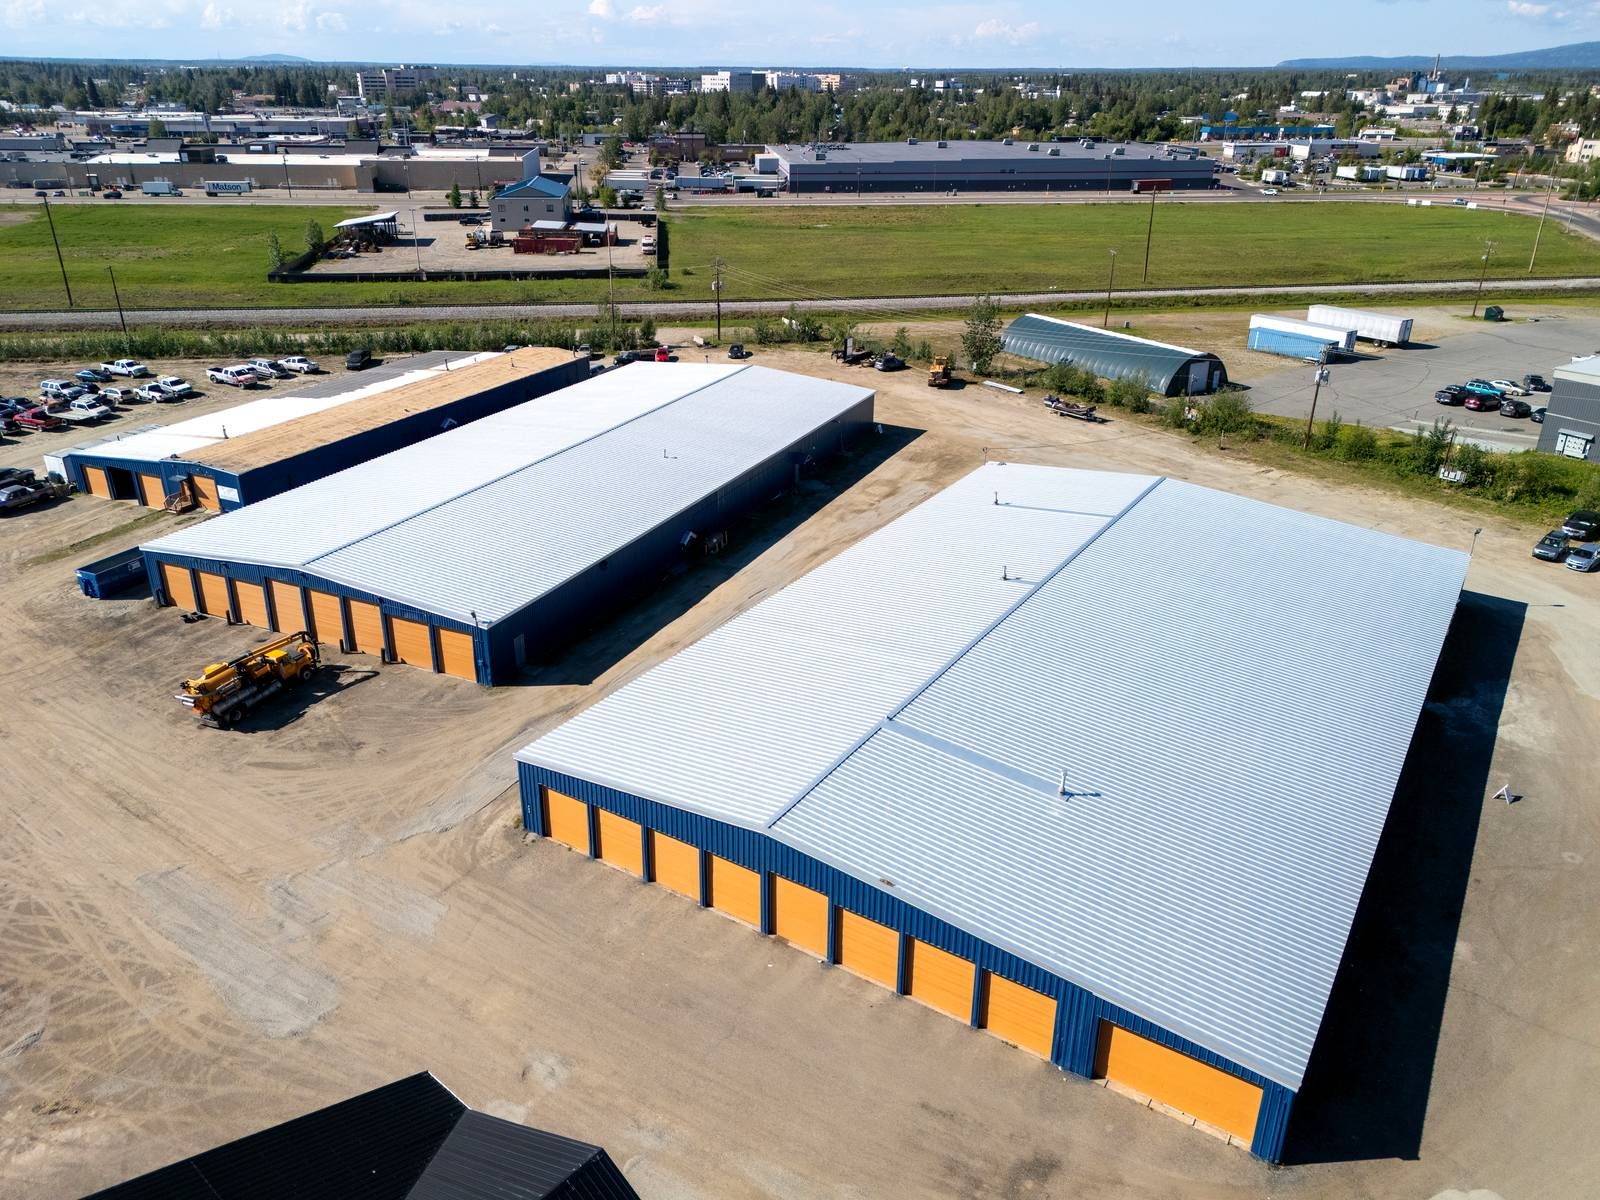
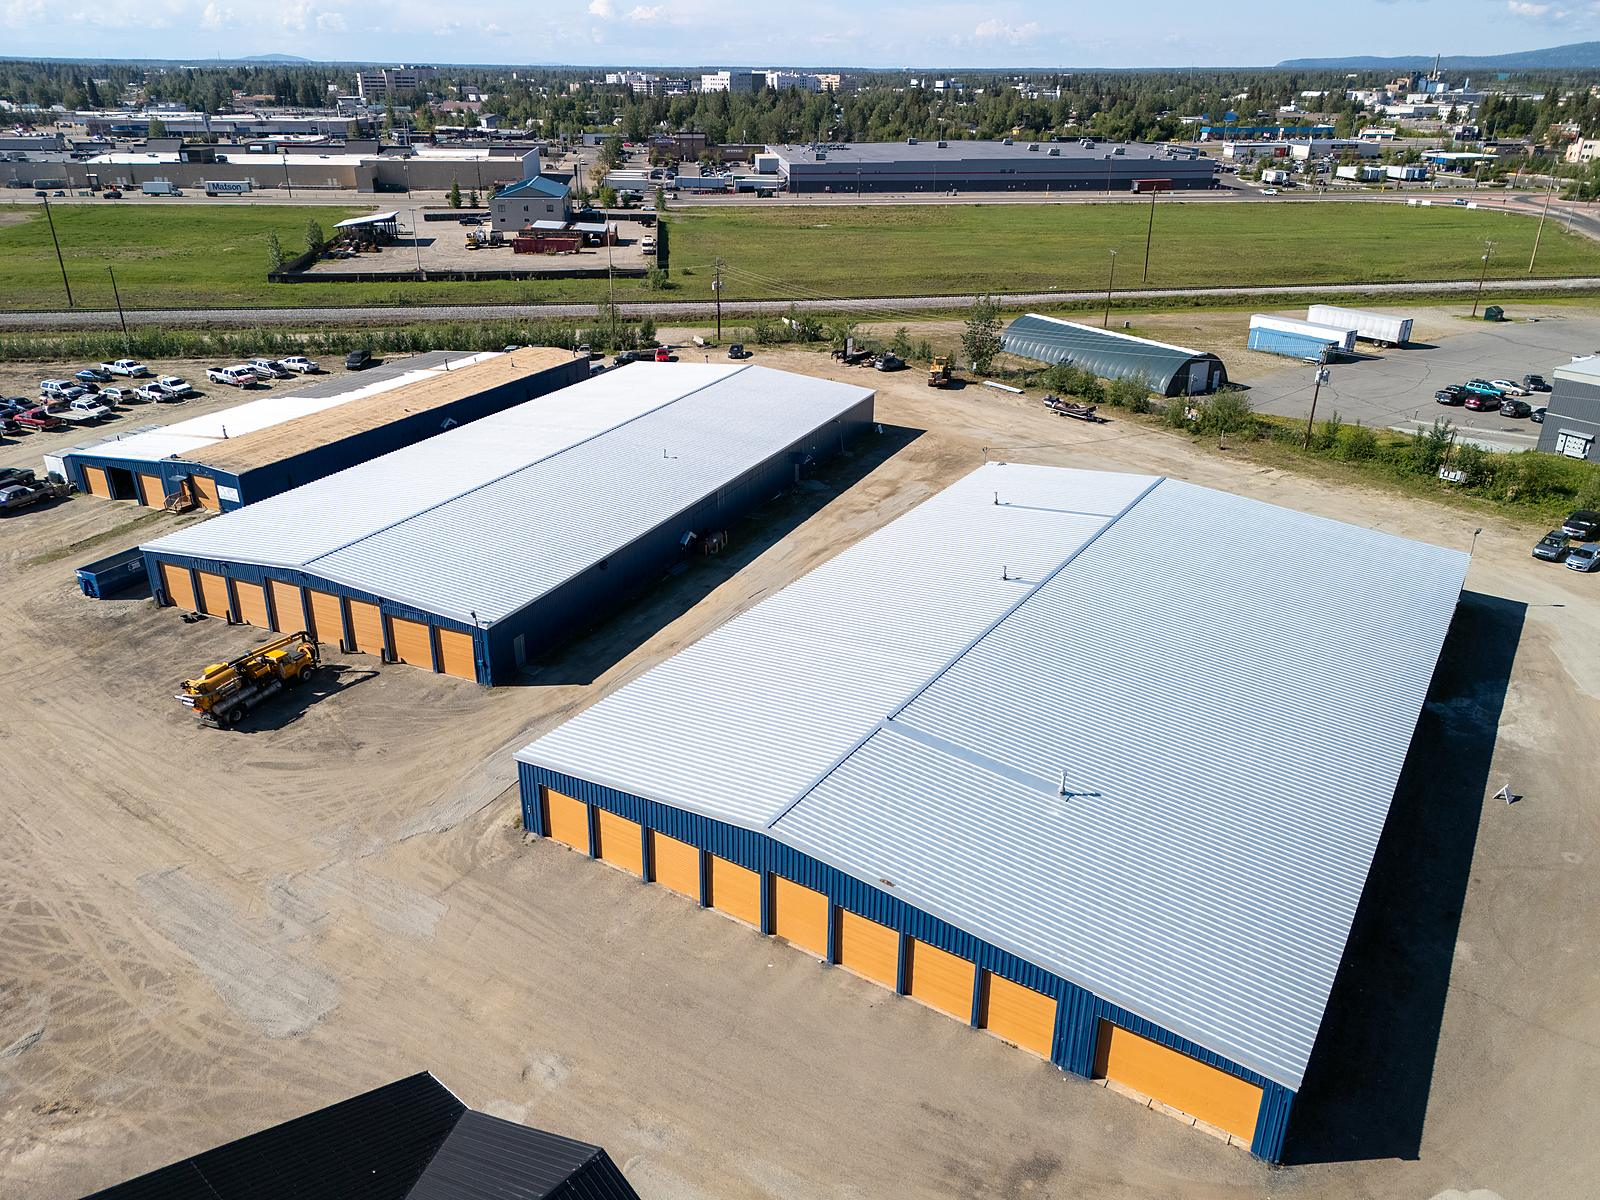
Curate best professional photos for every spot across the site
Replace site imagery with the professional HDR/drone real-estate set:
- Hero: sharper on-brand aerial of the Helmericks warehouses (12-16)
- Secondary aerial: full-campus overview (4-18)
- Signature warehouse exterior, office building, and all shop interiors,
  service pit, and restroom swapped to the pro shots
- 300 Barnette lead photo upgraded to a cleaner establishing shot
- Expanded the Helmericks gallery to a flush 11-tile, 3-row grid, adding
  the gold-door elevation and two finished office-suite interiors
- Re-tuned JPEG quality per image and normalized every width/height to the
  exact processed dimensions (no layout shift)

diff --git a/properties.html b/properties.html
@@ -126,7 +126,7 @@
   <div class="wrap">
     <div class="cards c2">
       <a class="pcard reveal" href="#helmericks">
-        <div class="pcard__img"><img width="1600" height="1068" src="assets/img/helmericks-storage.jpg" alt="399 Helmericks Avenue warehouses" loading="lazy"><span class="pcard__type">Industrial / Warehouse</span></div>
+        <div class="pcard__img"><img width="1600" height="1069" src="assets/img/helmericks-storage.jpg" alt="399 Helmericks Avenue warehouses" loading="lazy"><span class="pcard__type">Industrial / Warehouse</span></div>
         <div class="pcard__body">
           <h3>399 Helmericks Avenue</h3>
           <div class="pcard__addr"><svg viewBox="0 0 24 24" fill="none" stroke="currentColor" stroke-width="2"><path d="M12 21s-7-6.6-7-11a7 7 0 0 1 14 0c0 4.4-7 11-7 11z"/><circle cx="12" cy="10" r="2.6"/></svg> Fairbanks, AK 99701</div>
@@ -134,7 +134,7 @@
         </div>
       </a>
       <a class="pcard reveal d1" href="#barnette">
-        <div class="pcard__img"><img width="1448" height="899" src="assets/img/barnette-exterior.jpg" alt="300 Barnette Street office building" loading="lazy"><span class="pcard__type">Downtown Office</span></div>
+        <div class="pcard__img"><img width="1448" height="999" src="assets/img/barnette-exterior.jpg" alt="300 Barnette Street office building" loading="lazy"><span class="pcard__type">Downtown Office</span></div>
         <div class="pcard__body">
           <h3>300 Barnette Street</h3>
           <div class="pcard__addr"><svg viewBox="0 0 24 24" fill="none" stroke="currentColor" stroke-width="2"><path d="M12 21s-7-6.6-7-11a7 7 0 0 1 14 0c0 4.4-7 11-7 11z"/><circle cx="12" cy="10" r="2.6"/></svg> Fairbanks, AK 99701</div>
@@ -150,9 +150,9 @@
   <div class="wrap">
     <div class="prop reveal">
       <div class="prop__media">
-        <img width="1600" height="1068" class="pm-main" src="assets/img/helmericks-storage.jpg" alt="Warehouse bays with overhead doors at 399 Helmericks Avenue" loading="lazy">
+        <img width="1600" height="1069" class="pm-main" src="assets/img/helmericks-storage.jpg" alt="Warehouse bays with overhead doors at 399 Helmericks Avenue" loading="lazy">
         <div class="pm-thumbs">
-          <img width="1600" height="1068" src="assets/img/helmericks-int-2.jpg" alt="Warehouse bay interior at 399 Helmericks Avenue" loading="lazy">
+          <img width="1600" height="1069" src="assets/img/helmericks-int-2.jpg" alt="Warehouse bay interior at 399 Helmericks Avenue" loading="lazy">
           <img width="1600" height="1200" src="assets/img/helmericks-aerial.jpg" alt="Aerial of 399 Helmericks Avenue" loading="lazy">
         </div>
       </div>
@@ -300,13 +300,17 @@
     </div>
 
     <div class="gallery reveal" style="margin-top:56px">
-      <a class="g-wide" href="assets/img/helmericks-storage.jpg"><img width="1600" height="1068" src="assets/img/helmericks-storage.jpg" alt="Blue warehouse with gold overhead doors at 399 Helmericks" loading="lazy"></a>
-      <a href="assets/img/helmericks-int-1.jpg"><img width="1535" height="1024" src="assets/img/helmericks-int-1.jpg" alt="Open high-bay shop interior at 399 Helmericks" loading="lazy"></a>
-      <a href="assets/img/helmericks-int-2.jpg"><img width="1600" height="1068" src="assets/img/helmericks-int-2.jpg" alt="Vehicle shop with lifts at 399 Helmericks" loading="lazy"></a>
-      <a href="assets/img/helmericks-int-3.jpg"><img width="1448" height="1086" src="assets/img/helmericks-int-3.jpg" alt="Available warehouse bay at 399 Helmericks" loading="lazy"></a>
-      <a href="assets/img/helmericks-pit.jpg"><img width="1086" height="1448" src="assets/img/helmericks-pit.jpg" alt="Service and wash pit at 399 Helmericks" loading="lazy"></a>
-      <a href="assets/img/helmericks-bath.jpg"><img width="1600" height="2395" src="assets/img/helmericks-bath.jpg" alt="Restroom with washer, dryer and shower at 399 Helmericks" loading="lazy"></a>
-      <a href="assets/img/helmericks-office.jpg"><img width="1600" height="1068" src="assets/img/helmericks-office.jpg" alt="Office building at 399 Helmericks" loading="lazy"></a>
+      <a class="g-wide" href="assets/img/helmericks-storage.jpg"><img width="1600" height="1069" src="assets/img/helmericks-storage.jpg" alt="Blue warehouse with gold overhead doors at 399 Helmericks Avenue" loading="lazy"></a>
+      <a href="assets/img/helmericks-doors.jpg"><img width="1600" height="1069" src="assets/img/helmericks-doors.jpg" alt="Row of gold overhead doors along a warehouse at 399 Helmericks Avenue" loading="lazy"></a>
+      <a href="assets/img/helmericks-int-1.jpg"><img width="1600" height="1069" src="assets/img/helmericks-int-1.jpg" alt="Open high-bay shop with concrete floor at 399 Helmericks Avenue" loading="lazy"></a>
+      <a href="assets/img/helmericks-int-2.jpg"><img width="1600" height="1069" src="assets/img/helmericks-int-2.jpg" alt="Vehicle shop with lifts at 399 Helmericks Avenue" loading="lazy"></a>
+      <a href="assets/img/helmericks-int-3.jpg"><img width="1600" height="1069" src="assets/img/helmericks-int-3.jpg" alt="Shop bay with a vehicle lift at 399 Helmericks Avenue" loading="lazy"></a>
+      <a href="assets/img/helmericks-pit.jpg"><img width="1600" height="1069" src="assets/img/helmericks-pit.jpg" alt="Service and wash pit at 399 Helmericks Avenue" loading="lazy"></a>
+      <a href="assets/img/helmericks-bath.jpg"><img width="1600" height="1069" src="assets/img/helmericks-bath.jpg" alt="Finished restroom at 399 Helmericks Avenue" loading="lazy"></a>
+      <a href="assets/img/helmericks-office.jpg"><img width="1600" height="1069" src="assets/img/helmericks-office.jpg" alt="Office building at 399 Helmericks Avenue" loading="lazy"></a>
+      <a href="assets/img/helmericks-office-int.jpg"><img width="1600" height="1069" src="assets/img/helmericks-office-int.jpg" alt="Finished office lounge at 399 Helmericks Avenue" loading="lazy"></a>
+      <a href="assets/img/helmericks-office-int2.jpg"><img width="1600" height="1069" src="assets/img/helmericks-office-int2.jpg" alt="Finished office suite with desks at 399 Helmericks Avenue" loading="lazy"></a>
+      <a href="assets/img/helmericks-aerial.jpg"><img width="1600" height="1200" src="assets/img/helmericks-aerial.jpg" alt="Aerial view of the 399 Helmericks Avenue campus" loading="lazy"></a>
     </div>
   </div>
 </section>
@@ -316,7 +320,7 @@
   <div class="wrap">
     <div class="prop prop--rev reveal">
       <div class="prop__media">
-        <img width="1448" height="899" class="pm-main" src="assets/img/barnette-exterior.jpg" alt="300 Barnette Street office building in downtown Fairbanks" loading="lazy">
+        <img width="1448" height="999" class="pm-main" src="assets/img/barnette-exterior.jpg" alt="300 Barnette Street office building in downtown Fairbanks" loading="lazy">
         <div class="pm-thumbs">
           <img width="1600" height="1200" src="assets/img/barnette-reception.jpg" alt="Reception inside 300 Barnette Street" loading="lazy">
           <img width="960" height="1280" src="assets/img/barnette-glass.jpg" alt="Glass curtain wall side of 300 Barnette Street" loading="lazy">
@@ -373,7 +377,7 @@
     <p class="form-note" style="margin-top:18px;text-align:left;font-size:13.5px">Exterior beautification is in progress through the City of Fairbanks downtown facade incentive program.</p>
 
     <div class="gallery reveal" style="margin-top:56px">
-      <a class="g-wide" href="assets/img/barnette-exterior.jpg"><img width="1448" height="899" src="assets/img/barnette-exterior.jpg" alt="300 Barnette Street office building, front elevation" loading="lazy"></a>
+      <a class="g-wide" href="assets/img/barnette-exterior.jpg"><img width="1448" height="999" src="assets/img/barnette-exterior.jpg" alt="300 Barnette Street office building, front elevation" loading="lazy"></a>
       <a href="assets/img/barnette-corner.jpg"><img width="1448" height="971" src="assets/img/barnette-corner.jpg" alt="300 Barnette Street from the street corner" loading="lazy"></a>
       <a href="assets/img/barnette-glass.jpg"><img width="960" height="1280" src="assets/img/barnette-glass.jpg" alt="Glass curtain wall and entrance at 300 Barnette Street" loading="lazy"></a>
       <a href="assets/img/barnette-facade.jpg"><img width="1086" height="1448" src="assets/img/barnette-facade.jpg" alt="Decorative concrete screen facade at 300 Barnette Street" loading="lazy"></a>

diff --git a/index.html b/index.html
@@ -209,7 +209,7 @@
         </ul>
       </div>
       <div class="split__media reveal d2">
-        <img width="1535" height="1024" src="assets/img/helmericks-int-1.jpg" alt="Open warehouse interior with concrete floor at 399 Helmericks Avenue" loading="lazy" decoding="async">
+        <img width="1600" height="1069" src="assets/img/helmericks-int-1.jpg" alt="Open warehouse interior with concrete floor at 399 Helmericks Avenue" loading="lazy" decoding="async">
         <div class="badge badge--br">
           <svg viewBox="0 0 24 24" fill="none" stroke="currentColor" stroke-width="2"><path d="M3 21h18M5 21V7l7-4 7 4v14"/><path d="M9 9h.01M15 9h.01M9 13h.01M15 13h.01M9 17h.01M15 17h.01"/></svg>
           <div><div class="b-num">83,000 SF</div><div class="b-lbl">Across two properties</div></div>
@@ -231,9 +231,9 @@
     <!-- 399 Helmericks -->
     <div class="prop reveal">
       <div class="prop__media">
-        <img width="1600" height="1068" class="pm-main" src="assets/img/helmericks-storage.jpg" alt="Row of warehouse bays with overhead doors at 399 Helmericks Avenue" loading="lazy" decoding="async">
+        <img width="1600" height="1069" class="pm-main" src="assets/img/helmericks-storage.jpg" alt="Row of warehouse bays with overhead doors at 399 Helmericks Avenue" loading="lazy" decoding="async">
         <div class="pm-thumbs">
-          <img width="1600" height="1068" src="assets/img/helmericks-int-2.jpg" alt="Warehouse bay interior at 399 Helmericks Avenue" loading="lazy" decoding="async">
+          <img width="1600" height="1069" src="assets/img/helmericks-int-2.jpg" alt="Warehouse bay interior at 399 Helmericks Avenue" loading="lazy" decoding="async">
           <img width="1600" height="1200" src="assets/img/helmericks-aerial.jpg" alt="Aerial of the 399 Helmericks Avenue site" loading="lazy" decoding="async">
         </div>
       </div>
@@ -258,7 +258,7 @@
     <!-- 300 Barnette -->
     <div class="prop prop--rev reveal">
       <div class="prop__media">
-        <img width="1448" height="899" class="pm-main" src="assets/img/barnette-exterior.jpg" alt="The 300 Barnette Street office building in downtown Fairbanks" loading="lazy" decoding="async">
+        <img width="1448" height="999" class="pm-main" src="assets/img/barnette-exterior.jpg" alt="The 300 Barnette Street office building in downtown Fairbanks" loading="lazy" decoding="async">
         <div class="pm-thumbs">
           <img width="1600" height="1200" src="assets/img/barnette-reception.jpg" alt="Reception area inside 300 Barnette Street" loading="lazy" decoding="async">
           <img width="960" height="1280" src="assets/img/barnette-glass.jpg" alt="Glass curtain wall side of 300 Barnette Street" loading="lazy" decoding="async">

diff --git a/about.html b/about.html
@@ -109,7 +109,7 @@
 <main id="main">
 
 <section class="page-hero">
-  <div class="page-hero__bg"><img width="1448" height="899" src="assets/img/barnette-exterior.jpg" alt="OFD office building in downtown Fairbanks"></div>
+  <div class="page-hero__bg"><img width="1448" height="999" src="assets/img/barnette-exterior.jpg" alt="OFD office building in downtown Fairbanks"></div>
   <div class="wrap page-hero__inner">
     <div class="crumbs"><a href="index.html">Home</a> / <span>About</span></div>
     <h1>About OFD, LLC</h1>
@@ -204,7 +204,7 @@
 
 <!-- CTA -->
 <section class="cta">
-  <div class="cta__bg"><img width="1600" height="1068" src="assets/img/helmericks-storage.jpg" alt="" aria-hidden="true" loading="lazy"></div>
+  <div class="cta__bg"><img width="1600" height="1069" src="assets/img/helmericks-storage.jpg" alt="" aria-hidden="true" loading="lazy"></div>
   <div class="wrap">
     <div class="cta__inner reveal">
       <h2>Work with a local owner.</h2>

diff --git a/contact.html b/contact.html
@@ -109,7 +109,7 @@
 <main id="main">
 
 <section class="page-hero">
-  <div class="page-hero__bg"><img width="1600" height="1068" src="assets/img/helmericks-storage.jpg" alt="Blue warehouse with gold overhead doors at 399 Helmericks"></div>
+  <div class="page-hero__bg"><img width="1600" height="1069" src="assets/img/helmericks-storage.jpg" alt="Blue warehouse with gold overhead doors at 399 Helmericks"></div>
   <div class="wrap page-hero__inner">
     <div class="crumbs"><a href="index.html">Home</a> / <span>Contact</span></div>
     <h1>Contact Us</h1>

diff --git a/leasing.html b/leasing.html
@@ -122,7 +122,7 @@
 <main id="main">
 
 <section class="page-hero">
-  <div class="page-hero__bg"><img width="1600" height="1068" src="assets/img/helmericks-storage.jpg" alt="OFD warehouse space in Fairbanks"></div>
+  <div class="page-hero__bg"><img width="1600" height="1069" src="assets/img/helmericks-storage.jpg" alt="OFD warehouse space in Fairbanks"></div>
   <div class="wrap page-hero__inner">
     <div class="crumbs"><a href="index.html">Home</a> / <span>Leasing</span></div>
     <h1>Leasing &amp; Management</h1>
